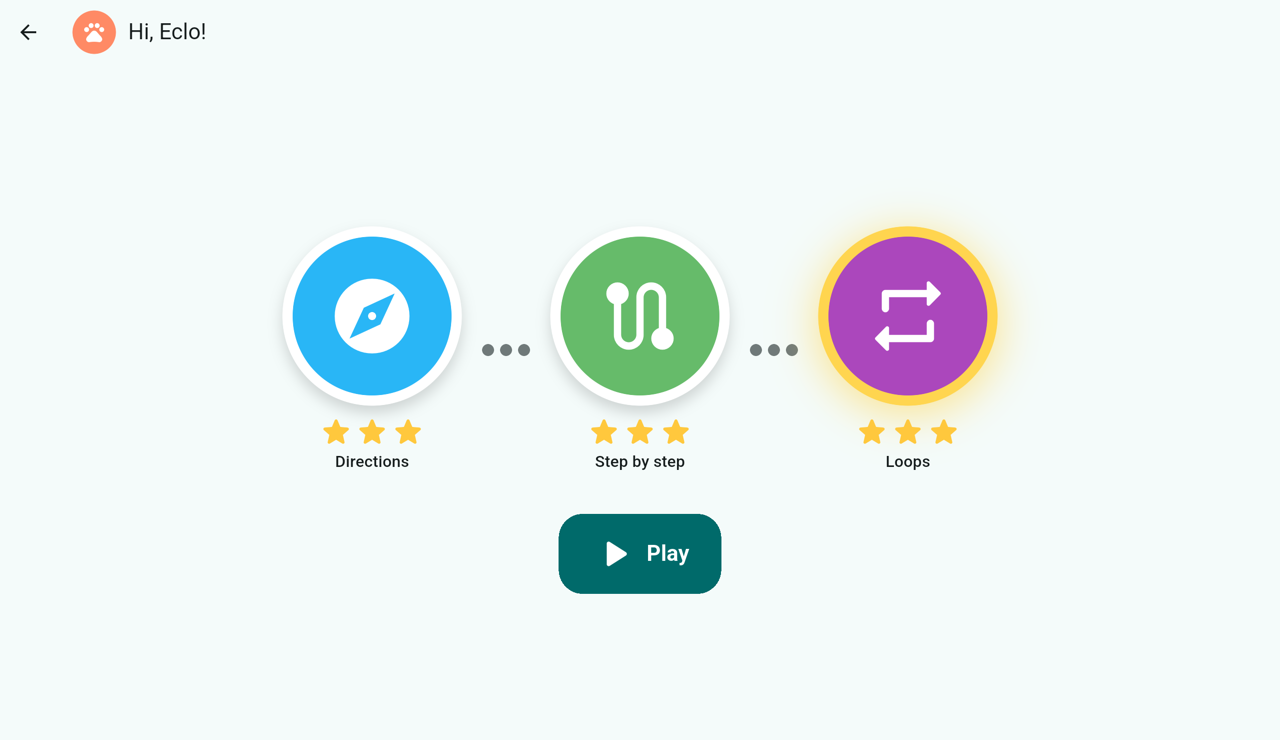
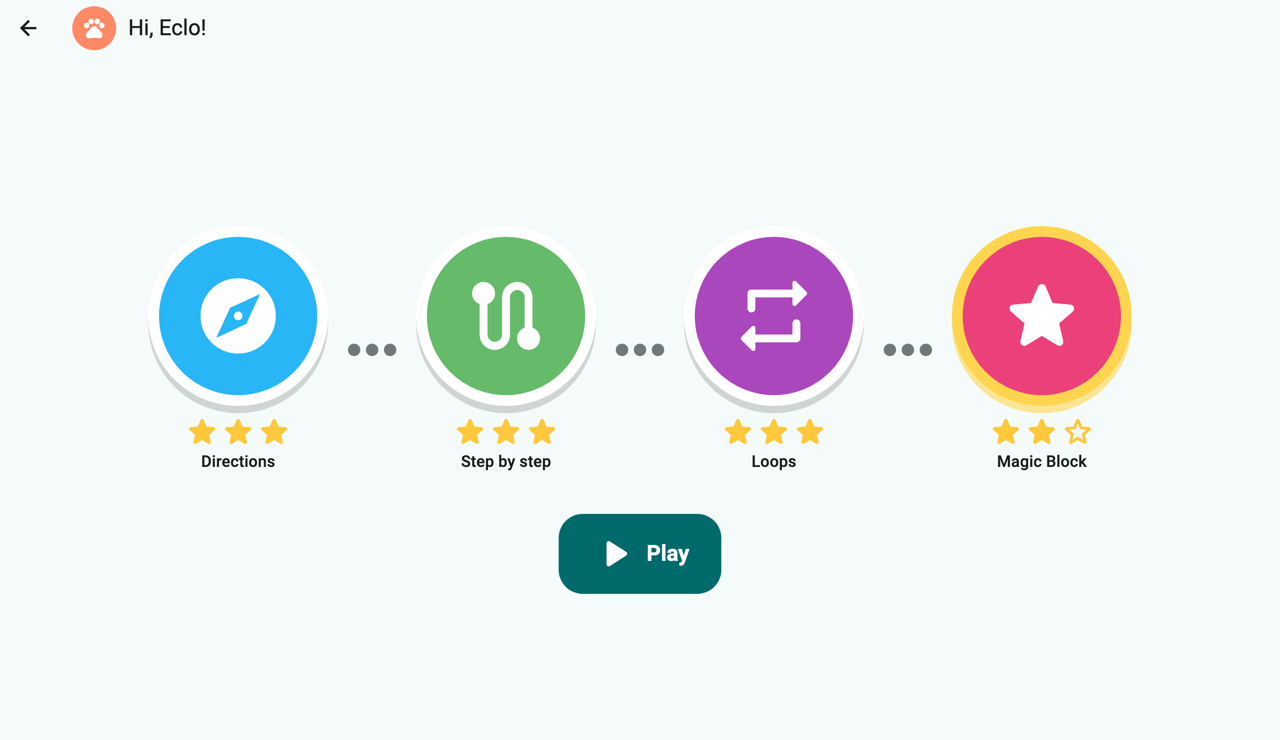
chore(release): build 1.0.0+3 with new screenshots
New screenshots of the four-island map, a Magic Block puzzle and the
progress report, in Indonesian and English. They are rendered from the
real app with sample data by tool/screenshots (flutter test
tool/screenshots --update-goldens, then tool/screenshots/export.sh).

The store gets two more slides (7 in all), and the store descriptions,
landing page and README now describe four islands and the sponsors'
progress report. Buttons now use the theme's label font instead of the
fallback font.

Changed region(s): [[0.125, 0.2797, 0.9062, 0.6527], [0.0625, 0.0, 0.1562, 0.0932], [0.0, 0.0311, 0.0312, 0.0622]]

diff --git a/tool/screenshots/screenshots_test.dart b/tool/screenshots/screenshots_test.dart
@@ -1,0 +1,259 @@
+// Renders the README, website and store screenshots from the real app with
+// sample data, in Indonesian and English:
+//
+//   flutter test tool/screenshots --update-goldens
+//   tool/screenshots/export.sh
+//
+// Not part of the Checks: it writes images instead of testing behaviour.
+import 'dart:io';
+
+import 'package:cobalagi/app/app.dart';
+import 'package:cobalagi/core/audio/audio_service.dart';
+import 'package:cobalagi/core/entitlement/entitlement_service.dart';
+import 'package:cobalagi/core/entitlement/plan.dart';
+import 'package:cobalagi/core/settings/settings_repository.dart';
+import 'package:cobalagi/engine/generator/solver.dart';
+import 'package:cobalagi/engine/program/instruction.dart';
+import 'package:cobalagi/features/editors/icon_blocks/cubit/icon_blocks_cubit.dart';
+import 'package:cobalagi/features/editors/icon_blocks/data/icon_block.dart';
+import 'package:cobalagi/features/editors/icon_blocks/view/icon_block_editor.dart';
+import 'package:cobalagi/features/learning/data/curriculum_repository.dart';
+import 'package:cobalagi/features/learning/data/progress_repository.dart';
+import 'package:cobalagi/features/play/data/level_repository.dart';
+import 'package:cobalagi/features/profiles/data/profile_repository.dart';
+import 'package:cobalagi/learning/exercise_result.dart';
+import 'package:cobalagi/learning/learner_state.dart';
+import 'package:cobalagi/learning/placement/placement.dart';
+import 'package:flutter/material.dart';
+import 'package:flutter/services.dart';
+import 'package:flutter_bloc/flutter_bloc.dart';
+import 'package:flutter_test/flutter_test.dart';
+import 'package:go_router/go_router.dart';
+import 'package:sembast/sembast_memory.dart';
+
+/// Screenshots are 1280 x 740 logical pixels, rendered at 2x.
+const _size = Size(1280, 740);
+
+/// The Material fonts that ship with the Flutter SDK running this test.
+Future<void> _loadFonts() async {
+  final tester = Platform.resolvedExecutable;
+  final root = tester.substring(0, tester.indexOf('/bin/cache/'));
+  final dir = '$root/bin/cache/artifacts/material_fonts';
+  Future<void> load(String family, List<String> files) async {
+    final loader = FontLoader(family);
+    for (final file in files) {
+      loader.addFont(
+        Future.value(
+          ByteData.sublistView(File('$dir/$file').readAsBytesSync()),
+        ),
+      );
+    }
+    await loader.load();
+  }
+
+  await load('Roboto', [
+    'Roboto-Regular.ttf',
+    'Roboto-Medium.ttf',
+    'Roboto-Bold.ttf',
+    'Roboto-Black.ttf',
+  ]);
+  await load('MaterialIcons', ['MaterialIcons-Regular.otf']);
+}
+
+ExerciseResult _result(String concept, String level, {int seconds = 80}) =>
+    ExerciseResult(
+      conceptId: concept,
+      levelId: level,
+      mode: ExerciseMode.lesson,
+      difficulty: 2,
+      succeeded: true,
+      runs: 1,
+      hintsUsed: 0,
+      duration: Duration(seconds: seconds),
+    );
+
+/// Eclo has finished the first three islands and started Magic Block.
+Future<Database> _seed(String language) async {
+  final db = await newDatabaseFactoryMemory().openDatabase('shots.db');
+  final eclo = await ProfileRepository(db).add(nickname: 'Eclo', avatar: 0);
+  await ProfileRepository(db).add(nickname: 'Gito', avatar: 2);
+  final progress = ProgressRepository(db);
+  Set<String> lessons(String id, int n) => {
+    for (var i = 1; i <= n; i++) '$id-0$i',
+  };
+  await progress.save(
+    eclo.id,
+    LearnerState(
+      currentConcept: 'functions',
+      placement: Placement(
+        startConcept: 'directions',
+        levels: const {},
+        readsWords: false,
+        at: DateTime(2026, 9, 28),
+        byParent: false,
+      ),
+      progress: {
+        for (final (id, n) in [
+          ('directions', 5),
+          ('sequencing', 4),
+          ('loops', 4),
+        ])
+          id: ConceptProgress(
+            scores: const [1, 0.9, 1],
+            difficulty: 3,
+            attemptedLessons: lessons(id, n),
+            solvedLessons: lessons(id, n),
+          ),
+        'functions': ConceptProgress(
+          scores: const [0.6],
+          difficulty: 1,
+          attemptedLessons: lessons('functions', 2),
+          solvedLessons: lessons('functions', 1),
+        ),
+      },
+    ),
+  );
+  // Older attempts, then this week's (attempts are timed when logged).
+  await db.transaction((txn) async {
+    final attempts = intMapStoreFactory.store('attempts');
+    final weekAgo = DateTime.now().subtract(const Duration(days: 9));
+    for (var i = 0; i < 26; i++) {
+      await attempts.add(txn, {
+        'profile': eclo.id,
+        'at': weekAgo.add(Duration(minutes: i * 30)).millisecondsSinceEpoch,
+        ..._result('loops', 'loops-0${i % 4 + 1}').toJson(),
+      });
+    }
+  });
+  for (var i = 0; i < 9; i++) {
+    await progress.logAttempt(
+      eclo.id,
+      _result('functions', 'functions-0${i % 2 + 1}', seconds: 95),
+    );
+  }
+  await SettingsRepository(db).saveLanguageCode(language);
+  return db;
+}
+
+Future<void> _settle(WidgetTester tester) async {
+  for (var i = 0; i < 30; i++) {
+    await tester.runAsync(
+      () => Future<void>.delayed(const Duration(milliseconds: 20)),
+    );
+    await tester.pump(const Duration(milliseconds: 100));
+  }
+}
+
+Future<void> _open(WidgetTester tester, String path) async {
+  final context = tester.element(find.byType(Scaffold).first);
+  GoRouter.of(context).go(path);
+  await _settle(tester);
+}
+
+/// Builds a star-block answer to [levelId] in the editor, like a child would.
+Future<void> _buildAnswer(WidgetTester tester, String levelId) async {
+  final level = parseLevelPack(
+    File('assets/levels/functions.json').readAsStringSync(),
+  ).firstWhere((l) => l.id == levelId);
+  final steps = solve(level)!.body.map((i) => i.kind).toList();
+  // The shortest repeating shape that, called each time it comes back, fits.
+  for (var unit = 2; unit <= steps.length ~/ 2; unit++) {
+    for (var start = 0; start + unit <= steps.length; start++) {
+      final shape = steps.sublist(start, start + unit);
+      bool at(int i) =>
+          List.generate(
+            shape.length,
+            (j) => i + j < steps.length && steps[i + j] == shape[j],
+          ).every((same) => same) ||
+          (steps.length - i < unit &&
+              List.generate(
+                steps.length - i,
+                (j) => steps[i + j] == shape[j],
+              ).every((same) => same));
+      final main = <InstructionKind>[];
+      for (var i = 0; i < steps.length;) {
+        if (at(i)) {
+          main.add(InstructionKind.call);
+          i += unit;
+        } else {
+          main.add(steps[i++]);
+        }
+      }
+      if (main.length + shape.length <= level.maxBlocks!) {
+        final cubit = tester
+            .element(find.byType(IconBlockEditor))
+            .read<IconBlocksCubit>();
+        IconBlockType type(InstructionKind kind) =>
+            IconBlockType.values.firstWhere((t) => t.kind == kind);
+        for (final kind in shape) {
+          cubit.add(type(kind), parentId: IconBlocksCubit.starRow);
+        }
+        for (final kind in main) {
+          cubit.add(type(kind));
+        }
+        await _settle(tester);
+        return;
+      }
+    }
+  }
+  throw StateError('no star answer for $levelId');
+}
+
+void main() {
+  setUpAll(_loadFonts);
+
+  for (final language in ['id', 'en']) {
+    final suffix = language == 'id' ? '-id' : '';
+
+    Future<void> pumpApp(
+      WidgetTester tester, {
+      Plan plan = Plan.free,
+      Size size = _size,
+    }) async {
+      tester.view.physicalSize = size * 2;
+      tester.view.devicePixelRatio = 2;
+      addTearDown(tester.view.reset);
+      rootBundle.clear();
+      final db = await tester.runAsync(() => _seed(language));
+      await tester.pumpWidget(
+        CobaLagiApp(
+          profiles: ProfileRepository(db!),
+          settings: SettingsRepository(db),
+          entitlement: StaticEntitlementService(plan),
+          audio: const SilentAudioService(),
+          curriculum: CurriculumRepository(),
+          progress: ProgressRepository(db),
+        ),
+      );
+      await _settle(tester);
+    }
+
+    Future<void> shoot(String name) => expectLater(
+      find.byType(CobaLagiApp),
+      matchesGoldenFile('out/$name$suffix.png'),
+    );
+
+    testWidgets('adventure map ($language)', (tester) async {
+      await pumpApp(tester);
+      await _open(tester, '/child/1');
+      await shoot('adventure-map');
+    });
+
+    testWidgets('magic block ($language)', (tester) async {
+      await pumpApp(tester);
+      await _open(tester, '/child/1/replay/functions-02');
+      await _buildAnswer(tester, 'functions-02');
+      await shoot('play-functions');
+    });
+
+    testWidgets('progress report ($language)', (tester) async {
+      // Tall enough for every island; shown as a framed card in the store.
+      await pumpApp(tester, plan: Plan.full, size: const Size(760, 820));
+      await _open(tester, '/parent');
+      final context = tester.element(find.byType(Scaffold).first);
+      GoRouter.of(context).push('/parent/progress/1');
+      await _settle(tester);
+      await shoot('parent-progress');
+    });
+  }
+}

diff --git a/website/index.html b/website/index.html
@@ -129,13 +129,13 @@
             <div class="step-text">
               <span class="num">2</span>
               <h3 data-en="Explore the islands">Jelajahi pulau-pulau</h3>
-              <p data-en="Directions, then Step by step, then Loops. Stars show how far your child has come.">Arah, lalu Langkah demi langkah, lalu Perulangan. Bintang menunjukkan sejauh mana anakmu melangkah.</p>
+              <p data-en="Directions, Step by step, Loops, then Magic Block, where children build their own block. Stars show how far your child has come.">Arah, Langkah demi langkah, Perulangan, lalu Blok Ajaib, tempat anak membuat blok sendiri. Bintang menunjukkan sejauh mana anakmu melangkah.</p>
             </div>
             <div class="shot">
               <img src="screenshots/adventure-map-id.png" width="1280" height="740" loading="lazy"
                    data-en-src="screenshots/adventure-map.png"
-                   alt="Peta petualangan dengan tiga pulau dan bintang kemajuan"
-                   data-en-alt="The adventure map with three islands and progress stars">
+                   alt="Peta petualangan dengan empat pulau dan bintang kemajuan"
+                   data-en-alt="The adventure map with four islands and progress stars">
             </div>
           </div>
           <div class="step">
@@ -166,6 +166,7 @@
             <ul class="checks">
               <li data-en="The parent area sits behind a grown-up question that young children can't answer.">Area orang tua dilindungi pertanyaan untuk orang dewasa yang belum bisa dijawab anak kecil.</li>
               <li data-en="Choose a child's starting island, or let them replay the warm-up game.">Pilih pulau awal anak, atau biarkan mereka mengulang permainan pemanasan.</li>
+              <li data-en="Sponsors see a progress report for each child: puzzles solved, time played and every island.">Sponsor bisa melihat laporan perkembangan tiap anak: teka-teki yang selesai, waktu bermain, dan setiap pulau.</li>
               <li data-en="Free for one player. A donation of any size unlocks sponsor features, such as up to six players.">Gratis untuk satu pemain. Donasi berapa pun membuka fitur sponsor, misalnya hingga enam pemain.</li>
               <li data-en="Donations go through Google Play and can only be made from the parent area.">Donasi diproses lewat Google Play dan hanya bisa dilakukan dari area orang tua.</li>
             </ul>
@@ -176,10 +177,10 @@
             </div>
           </div>
           <div class="shot dialog">
-            <img src="screenshots/parent-placement-id.png" width="628" height="832" loading="lazy"
-                 data-en-src="screenshots/parent-placement.png"
-                 alt="Area orang tua: memilih pulau awal untuk seorang anak"
-                 data-en-alt="Parent area: choosing a child's starting island">
+            <img src="screenshots/parent-progress-id.png" width="760" height="820" loading="lazy"
+                 data-en-src="screenshots/parent-progress.png"
+                 alt="Laporan perkembangan seorang anak di area orang tua"
+                 data-en-alt="A child's progress report in the parent area">
           </div>
         </div>
       </div>

diff --git a/lib/app/theme/app_theme.dart b/lib/app/theme/app_theme.dart
@@ -1,3 +1,4 @@
+import 'package:flutter/foundation.dart';
 import 'package:flutter/material.dart';
 
 abstract final class AppTheme {
@@ -18,7 +19,12 @@ abstract final class AppTheme {
     );
     const buttonSize = Size(64, 64);
     const buttonPadding = EdgeInsets.symmetric(horizontal: 32, vertical: 16);
-    const buttonText = TextStyle(fontSize: 22, fontWeight: FontWeight.w700);
+    // Based on the platform's label style, so buttons use the app's font.
+    final typography = Typography.material2021(platform: defaultTargetPlatform);
+    final buttonText =
+        (brightness == Brightness.light ? typography.black : typography.white)
+            .labelLarge!
+            .copyWith(fontSize: 22, fontWeight: FontWeight.w700);
 
     return ThemeData(
       colorScheme: scheme,

diff --git a/README.md b/README.md
@@ -18,12 +18,14 @@ Website: [cobalagi.ardeman.com](https://cobalagi.ardeman.com) (source in `websit
 
 | | |
 | --- | --- |
-| ![Adventure map with three islands and mastery stars](website/screenshots/adventure-map.png) | ![A Loops puzzle: a repeat block holding a forward block, with hint footprints on the path](website/screenshots/play-loops.png) |
+| ![Adventure map with four islands and mastery stars](website/screenshots/adventure-map.png) | ![A Loops puzzle: a repeat block holding a forward block, with hint footprints on the path](website/screenshots/play-loops.png) |
 | **Adventure map:** one island per concept, with stars for mastery. | **Loops puzzle:** a repeat block, the block limit, and a hint showing the route. |
 | ![A solved puzzle with a cheer and a Next button](website/screenshots/solved.png) | ![Warm-up game asking what comes next in a pattern of shapes](website/screenshots/warm-up-pattern.png) |
 | **Solved:** varied cheers, then the next puzzle chosen by the learning rules. | **Warm-up game:** picture-based, voice-led placement for children who can't read yet. |
 | ![Parent area dialog for choosing a child's starting island](website/screenshots/parent-placement.png) | ![The adventure map in Bahasa Indonesia](website/screenshots/adventure-map-id.png) |
 | **Parent area:** behind a grown-up check; set the starting island or replay the warm-up. | **Bahasa Indonesia:** every screen in Indonesian and English. |
+| ![A Magic Block puzzle: the star row holds a stair step, called four times](website/screenshots/play-functions.png) | ![A child's progress report with puzzles, play time and islands](website/screenshots/parent-progress.png) |
+| **Magic Block:** build your own block once, then use it again and again. | **Progress report** (sponsor feature): puzzles, play time and every island. |
 
 | | |
 | --- | --- |
@@ -87,7 +89,7 @@ lib/
 test/              Mirrors lib/
 integration_test/  Tests that drive the real app on a device (e.g. warm-up voice timing)
 .githooks/         Versioned Git hooks for commit-message validation
-tool/              Developer scripts (voice-over recording script)
+tool/              Developer scripts (voice clips, screenshot renders)
 branding/          App icon source (SVG), rendered PNGs and branding/render.sh
 store/             Google Play listing text and graphics per language (id, en-US)
 website/           Static landing page for cobalagi.ardeman.com, plus screenshots
@@ -191,7 +193,7 @@ The icon (coral character on teal) is drawn in `branding/icon.svg`, with a one-c
 
 `store/<locale>/` holds the Google Play listing for Indonesian (`id`) and English (`en-US`): `title.txt` (max 30 characters), `short_description.txt` (max 80) and `full_description.txt` (max 4,000), plus `feature_graphic.png` (1024 × 500) and `screenshots/` (1920 × 1080, 16:9). Upload the same screenshots to the phone, 7-inch and 10-inch tablet sections. The app icon for the listing is `branding/play_store_icon.png`.
 
-`store/render.sh` re-renders the graphics from `website/screenshots/` and the icon art. Play doesn't allow ranking or promotional words ("best", "#1", "new", "sale"), calls to action or emoji in the listing.
+`flutter test tool/screenshots --update-goldens && tool/screenshots/export.sh` renders the adventure map, Magic Block and progress screenshots from the real app with sample data into `website/screenshots/` (the others were captured on a device). `store/render.sh` then re-renders the graphics from `website/screenshots/` and the icon art. Play doesn't allow ranking or promotional words ("best", "#1", "new", "sale"), calls to action or emoji in the listing.
 
 ## Roadmap (MVP)
 
